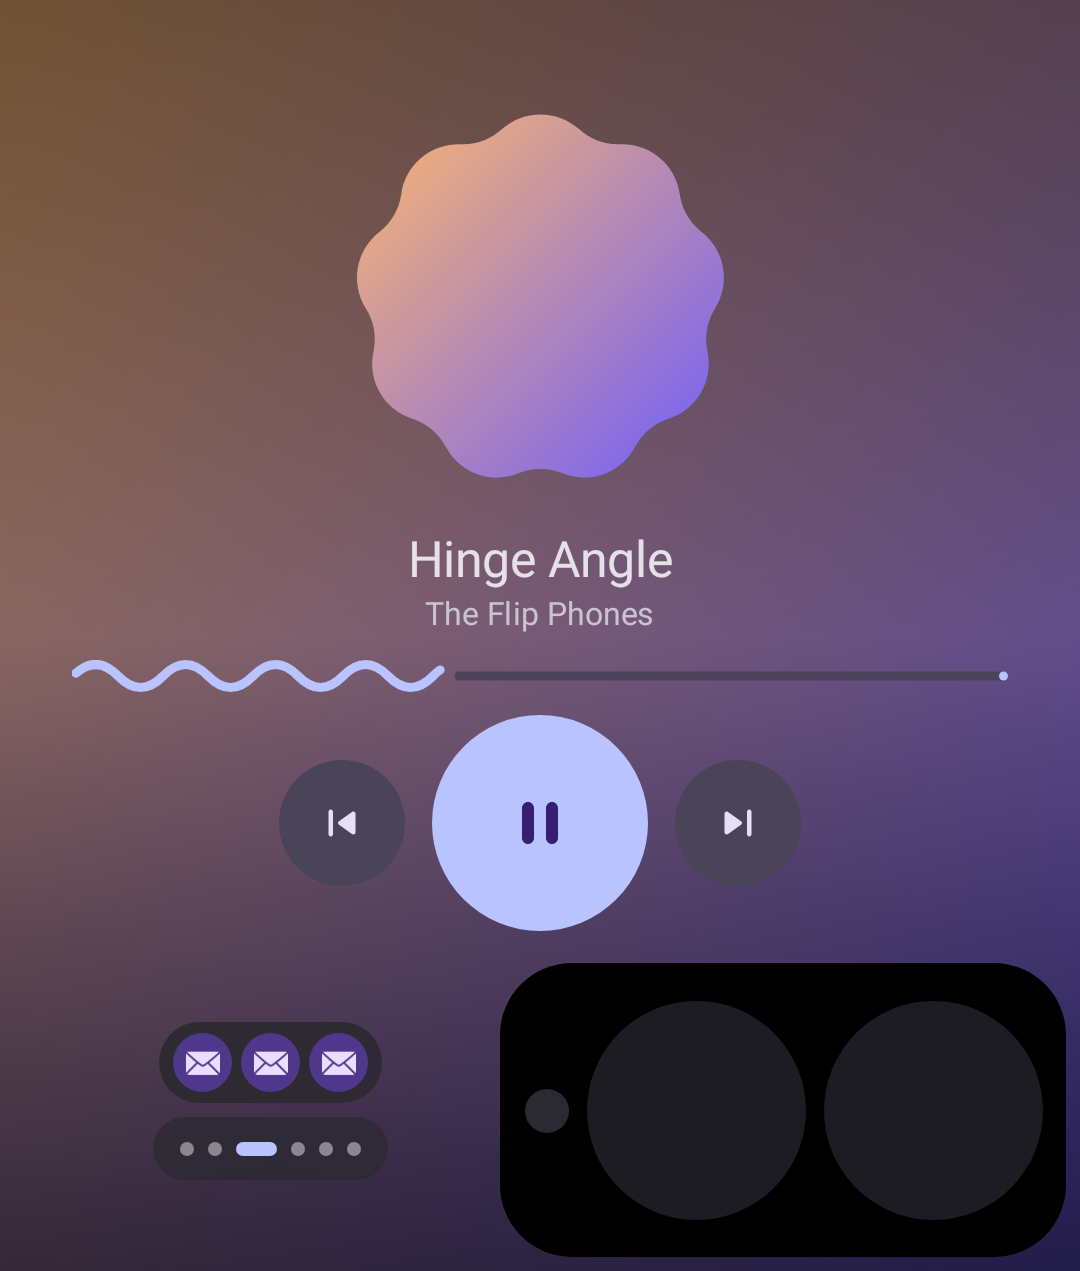
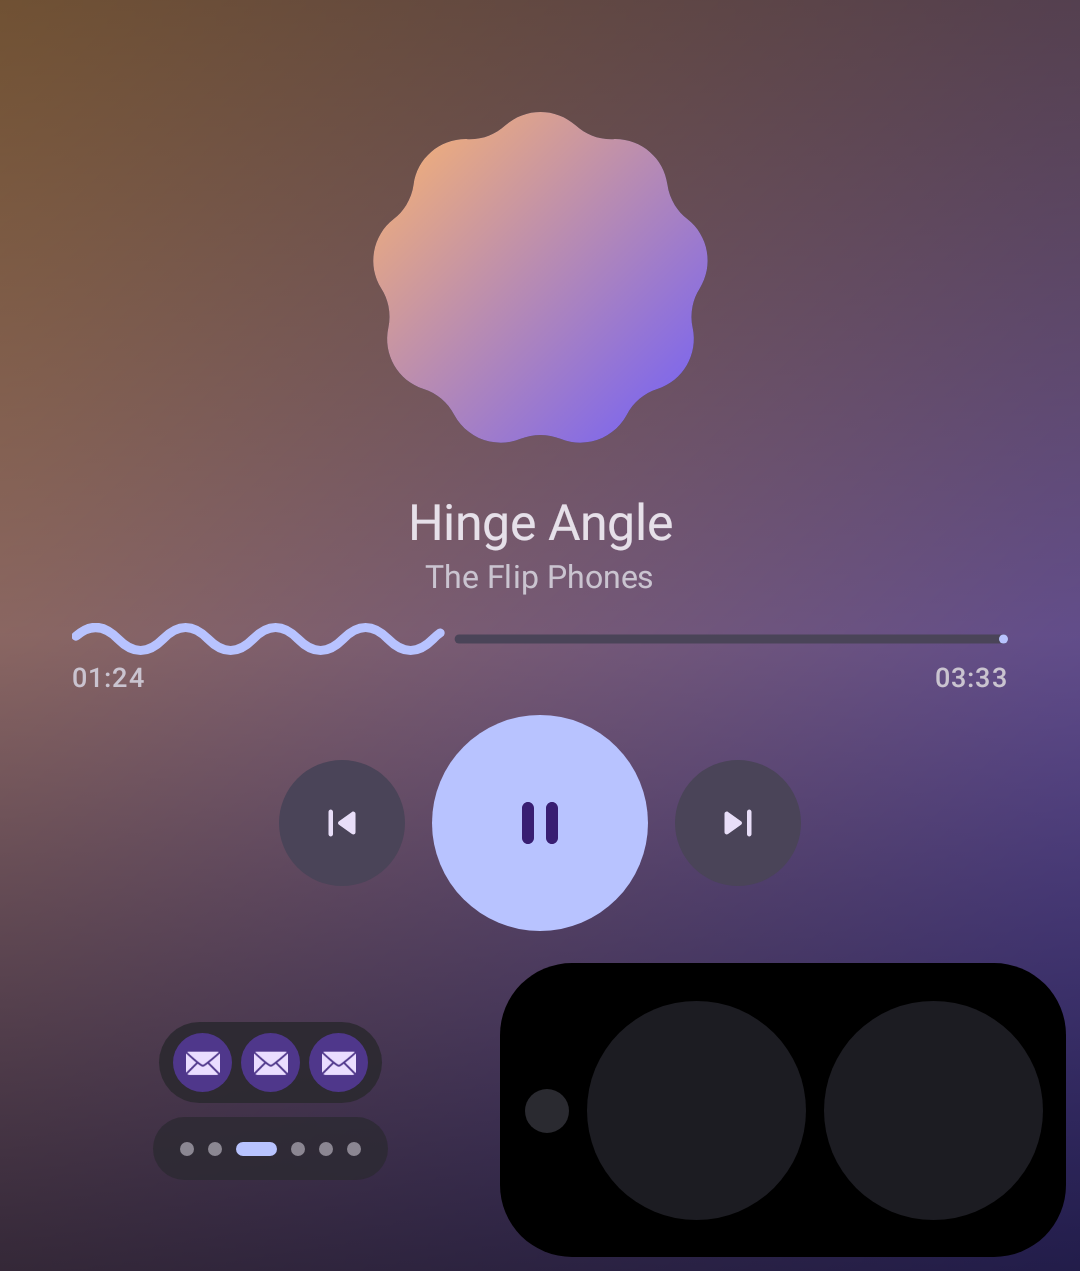
test: lock screen rules and screenshots
Unit tests for the lock screen notification rules (secret, private with
and without sensitive content, public versions, system switch off), and
screenshots of the lock screen with music, with notifications and idle.
The screenshot helper now keeps whatever a test tweaks.

diff --git a/app/src/test/java/com/tuki/flipslop/notifications/LockScreenPolicyTest.kt b/app/src/test/java/com/tuki/flipslop/notifications/LockScreenPolicyTest.kt
@@ -1,0 +1,69 @@
+package com.tuki.flipslop.notifications
+
+import android.app.Notification
+import org.junit.Assert.assertEquals
+import org.junit.Assert.assertNull
+import org.junit.Test
+
+class LockScreenPolicyTest {
+
+    private fun item(visibility: Int, publicTitle: String? = null, publicText: String? = null) = CoverNotification(
+        key = "k",
+        packageName = "app",
+        appLabel = "Messages",
+        smallIcon = null,
+        largeIcon = null,
+        color = 0,
+        title = "Alex",
+        text = "Are we still on for tonight?",
+        postTime = 0,
+        isClearable = true,
+        contentIntent = null,
+        actions = emptyList(),
+        visibility = visibility,
+        publicTitle = publicTitle,
+        publicText = publicText,
+    )
+
+    private val open = LockScreenPolicy(showNotifications = true, showPrivateContent = true)
+    private val redacting = LockScreenPolicy(showNotifications = true, showPrivateContent = false)
+
+    @Test
+    fun `secret notifications never show`() {
+        assertNull(item(Notification.VISIBILITY_SECRET).forLockScreen(open, "hidden"))
+    }
+
+    @Test
+    fun `nothing shows when the system hides lock screen notifications`() {
+        val off = LockScreenPolicy(showNotifications = false)
+        assertNull(item(Notification.VISIBILITY_PUBLIC).forLockScreen(off, "hidden"))
+    }
+
+    @Test
+    fun `private content shows when sensitive content is allowed`() {
+        val line = item(Notification.VISIBILITY_PRIVATE).forLockScreen(open, "hidden")!!
+        assertEquals("Alex", line.title)
+        assertEquals("Are we still on for tonight?", line.text)
+    }
+
+    @Test
+    fun `private content is redacted otherwise`() {
+        val line = item(Notification.VISIBILITY_PRIVATE).forLockScreen(redacting, "hidden")!!
+        assertEquals("Messages", line.title)
+        assertEquals("hidden", line.text)
+    }
+
+    @Test
+    fun `redaction uses the public version when the app gives one`() {
+        val line = item(Notification.VISIBILITY_PRIVATE, "1 new message", "Tap to view")
+            .forLockScreen(redacting, "hidden")!!
+        assertEquals("1 new message", line.title)
+        assertEquals("Tap to view", line.text)
+    }
+
+    @Test
+    fun `public notifications are never redacted`() {
+        val line = item(Notification.VISIBILITY_PUBLIC).forLockScreen(redacting, "hidden")!!
+        assertEquals("Alex", line.title)
+    }
+}

diff --git a/app/src/test/java/com/tuki/flipslop/ui/CoverScreenshotTest.kt b/app/src/test/java/com/tuki/flipslop/ui/CoverScreenshotTest.kt
@@ -63,6 +63,11 @@ class CoverScreenshotTest {
     @Test fun home() = shoot(CoverPage.HOME)
     @Test fun homeIdle() = shoot(CoverPage.HOME, idle = true, name = "home_idle")
     @Test fun homeClassicDock() = shoot(CoverPage.HOME, docked = false, name = "home_classic")
+    @Test fun locked() = shoot(CoverPage.HOME, name = "locked") { it.copy(locked = true) }
+    @Test fun lockedNotifications() = shoot(CoverPage.HOME, name = "locked_notifications") {
+        it.copy(locked = true, lockNotifications = true, media = null)
+    }
+    @Test fun lockedIdle() = shoot(CoverPage.HOME, name = "locked_idle") { it.copy(locked = true, media = null) }
     @Test fun appsCircle() = shoot(CoverPage.APPS, name = "apps_circle") { it.copy(iconShape = IconShapeStyle.CIRCLE) }
     @Test fun appsThemed() = shoot(CoverPage.APPS, name = "apps_themed") { it.copy(themedIcons = true) }
     @Test fun notifications() = shoot(CoverPage.NOTIFICATIONS)
@@ -81,12 +86,12 @@ class CoverScreenshotTest {
         name: String = page.name.lowercase(),
         tweak: (CoverUiState) -> CoverUiState = { it },
     ) {
-        val full = sampleState()
-        val state = tweak(full).copy(
-            notifications = if (idle) emptyList() else full.notifications,
-            media = if (idle) null else full.media,
-            locked = idle,
-            dock = full.dock.copy(pageBarAlways = !docked, notifications = docked, media = docked),
+        val base = tweak(sampleState())
+        val state = base.copy(
+            notifications = if (idle) emptyList() else base.notifications,
+            media = if (idle) null else base.media,
+            locked = base.locked,
+            dock = base.dock.copy(pageBarAlways = !docked, notifications = docked, media = docked),
         )
         // The clock, wavy progress and media ticker never go idle: drive time by hand.
         compose.mainClock.autoAdvance = false
